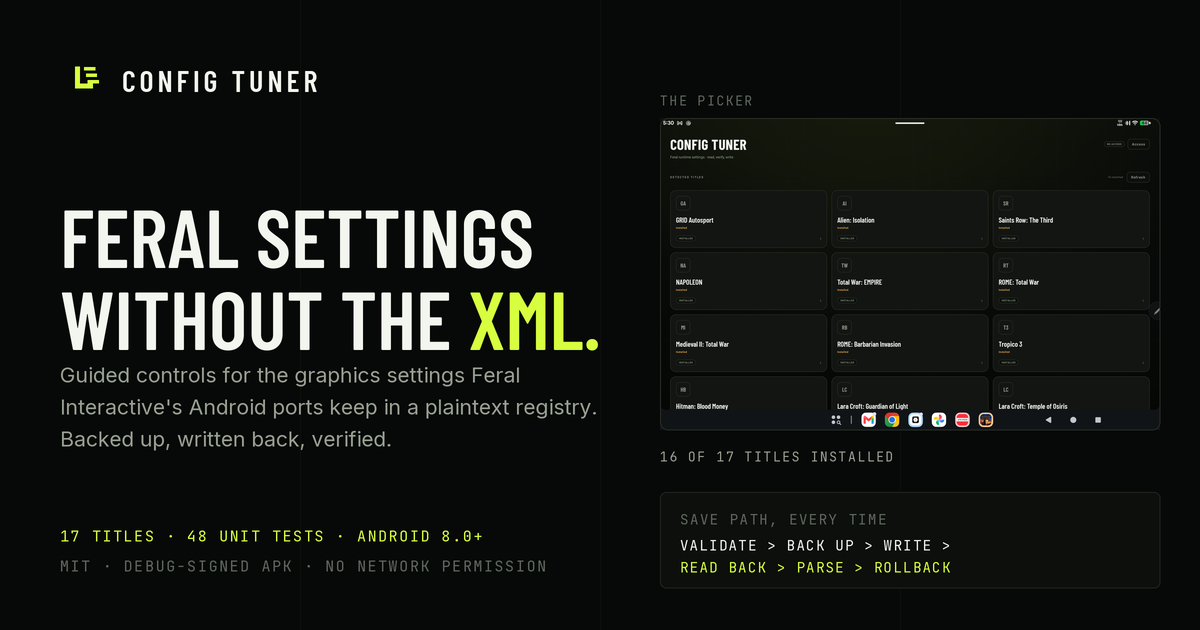
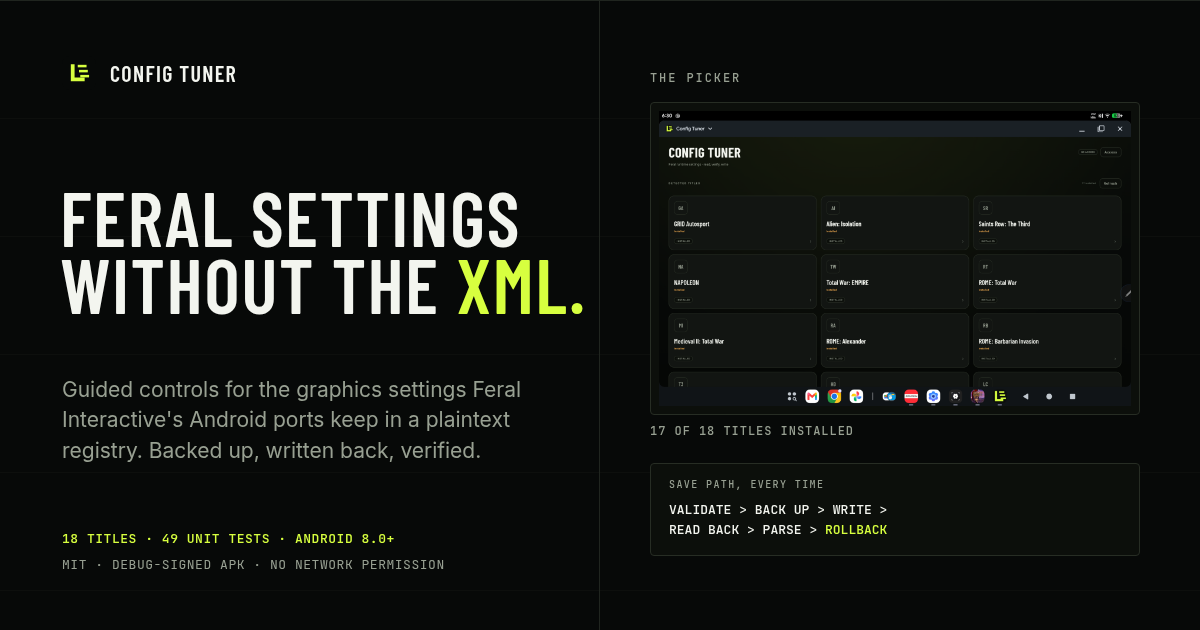
fix(website): sync landing page to 1.2.9 and 18 titles
- add ROME: Alexander to the title grid
- update proof strip, hero, install metadata and FAQ counts
- refresh picker screenshot and social card
- keep design and brand guide consistent with the shipped release

diff --git a/docs/website/index.html b/docs/website/index.html
@@ -4,14 +4,14 @@
 <meta charset="utf-8">
 <meta name="viewport" content="width=device-width, initial-scale=1">
 <title>Config Tuner — Feral settings without the XML</title>
-<meta name="description" content="Config Tuner is an unofficial, tablet-first Android app that edits the graphics settings of Feral Interactive's Android ports with guided controls, verified writes and automatic backups. 17 titles. Formerly Legend Tuner.">
+<meta name="description" content="Config Tuner is an unofficial, tablet-first Android app that edits the graphics settings of Feral Interactive's Android ports with guided controls, verified writes and automatic backups. 18 titles. Formerly Legend Tuner.">
 <meta name="theme-color" content="#070908">
 <meta name="color-scheme" content="dark">
 <link rel="canonical" href="https://andrewr8712.github.io/legend-tuner/">
 
 <meta property="og:type" content="website">
 <meta property="og:title" content="Config Tuner — Feral settings without the XML">
-<meta property="og:description" content="Guided controls for the graphics settings Feral Interactive's Android ports keep in a plaintext registry. Backed up, written back, verified. 17 titles, Android 8.0+, no network permission.">
+<meta property="og:description" content="Guided controls for the graphics settings Feral Interactive's Android ports keep in a plaintext registry. Backed up, written back, verified. 18 titles, Android 8.0+, no network permission.">
 <meta property="og:url" content="https://andrewr8712.github.io/legend-tuner/">
 <meta property="og:site_name" content="Config Tuner">
 <meta property="og:image" content="https://andrewr8712.github.io/legend-tuner/assets/brand/social-card.png">
@@ -60,7 +60,7 @@
   <section class="hero" id="top">
     <div class="wrap hero-grid">
       <div class="hero-copy">
-        <p class="kicker">Unofficial · Android 8.0+ · 17 titles</p>
+        <p class="kicker">Unofficial · Android 8.0+ · 18 titles</p>
         <h1>Feral settings<br><span class="hl">without the XML.</span></h1>
         <p class="lede">Every Feral Android port keeps its real graphics settings in a plaintext registry
           that Android will not let you open. Config Tuner gives you readable controls for that file —
@@ -75,7 +75,7 @@
             View on GitHub
           </a>
         </div>
-        <p class="hero-note">v1.2.8 · debug-signed · 10 MB · no network permission</p>
+        <p class="hero-note">v1.2.9 · debug-signed · 10 MB · no network permission</p>
       </div>
 
       <div class="hero-art">
@@ -100,12 +100,12 @@
   <section class="proof" id="proof" aria-label="At a glance">
     <div class="wrap proof-inner">
       <dl class="proof-list">
-        <div><dt>17</dt><dd>titles with guided controls</dd></div>
-        <div><dt>48</dt><dd>unit tests on the parser and catalogue</dd></div>
+        <div><dt>18</dt><dd>titles with guided controls</dd></div>
+        <div><dt>49</dt><dd>unit tests on the parser and catalogue</dd></div>
         <div><dt>0</dt><dd>network permissions, analytics or telemetry</dd></div>
         <div><dt>MIT</dt><dd>open source, debug-signed, on GitHub</dd></div>
       </dl>
-      <p class="proof-note">17 titles · 48 unit tests · as of 1.2.8</p>
+      <p class="proof-note">18 titles · 49 unit tests · as of 1.2.9</p>
     </div>
   </section>
 
@@ -205,7 +205,7 @@
     <div class="wrap">
       <header class="sec-head">
         <p class="sec-kicker">03 — Titles</p>
-        <h2>Seventeen games, one editor.</h2>
+        <h2>Eighteen games, one editor.</h2>
         <p class="sec-lede">Guided controls differ per title because the registries do. Counts are the
           number of guided controls Config Tuner ships for that title.</p>
       </header>
@@ -216,7 +216,7 @@
           <svg class="ico" viewBox="0 0 16 16" aria-hidden="true"><circle cx="7" cy="7" r="4.5" fill="none" stroke="currentColor" stroke-width="1.4"/><path d="m10.5 10.5 3 3" stroke="currentColor" stroke-width="1.4" fill="none"/></svg>
           <input id="title-filter" type="search" placeholder="Filter by title or package" autocomplete="off" spellcheck="false">
         </label>
-        <p class="filter-count" id="title-count" aria-live="polite">17 of 17 shown</p>
+        <p class="filter-count" id="title-count" aria-live="polite">18 of 18 shown</p>
       </div>
 
       <ul class="title-grid" id="title-list">
@@ -305,6 +305,11 @@
           <span class="tc-count">24 <span>guided controls</span></span>
           <code class="tc-pkg">com.feralinteractive.rometwbi</code>
         </li>
+        <li class="title-card" data-name="ROME: Alexander com.feralinteractive.rometwalex">
+          <span class="tc-name">ROME: Alexander</span>
+          <span class="tc-count">24 <span>guided controls</span></span>
+          <code class="tc-pkg">com.feralinteractive.rometwalex</code>
+        </li>
       </ul>
       <p class="empty-note" id="title-empty" hidden>No title matches that. <button type="button" class="linklike" id="title-reset">Clear the filter</button></p>
 
@@ -348,7 +353,7 @@
             <figcaption>Resolution and render scale use common-value lists, not free-form steppers.</figcaption></figure>
         </div>
       </div>
-      <p class="shot-note">All four screens are the shipping 1.2.8 interface. Nothing on this page is mocked up.</p>
+      <p class="shot-note">All four screens are the shipping 1.2.9 interface. Nothing on this page is mocked up.</p>
     </div>
   </section>
 
@@ -382,7 +387,7 @@
         <h3>Requirements</h3>
         <dl class="req-list">
           <div><dt>Android</dt><dd>8.0 or later (API 26), target 35</dd></div>
-          <div><dt>Download</dt><dd>~10 MB APK, <span class="nowrap">v1.2.8</span> (versionCode 11)</dd></div>
+          <div><dt>Download</dt><dd>~10 MB APK, <span class="nowrap">v1.2.9</span> (versionCode 12)</dd></div>
           <div><dt>Signature</dt><dd>Debug-signed, not on Google Play</dd></div>
           <div><dt>Permissions</dt><dd>No network permission at all</dd></div>
           <div><dt>Access</dt><dd>Root, Shizuku, manual file, or direct on older Android</dd></div>
@@ -456,13 +461,13 @@
         <details>
           <summary>Can I use it with a title that is not listed?</summary>
           <p>Open the preferences file with the raw XML editor. Guided controls exist only for the
-            seventeen titles the catalogue covers. A game that is not listed may still work through the
+            eighteen titles the catalogue covers. A game that is not listed may still work through the
             raw editor, and its keys may not be documented.</p>
         </details>
         <details>
           <summary>What is Legend Tuner?</summary>
           <p>Formerly Legend Tuner, which edited GRID Legends only. Version 1.2.x keeps the same package
-            identity and adds sixteen more titles.</p>
+            identity and adds seventeen more titles.</p>
         </details>
         </div>
       </div>

diff --git a/docs/website/brand/index.html b/docs/website/brand/index.html
@@ -40,7 +40,7 @@
 <main id="main">
 
   <section class="wrap brand-hero">
-    <p class="kicker">Brand kit · v1.2.8</p>
+    <p class="kicker">Brand kit · v1.2.9</p>
     <h1>The field instrument kit.</h1>
     <p class="sec-lede">One lime mark, one condensed headline face and a dark instrument panel.
       Everything here is meant to look like a tool someone uses, not a game someone markets.
@@ -207,7 +207,7 @@
     </div>
 
     <figure class="logo-card logo-card--spaced">
-      <div class="logo-stage logo-stage--flush"><img src="../assets/brand/social-card.png" alt="Config Tuner social card: mark and wordmark, headline Feral settings without the XML, and the title picker with sixteen installed titles." width="1200" height="630" loading="lazy"></div>
+      <div class="logo-stage logo-stage--flush"><img src="../assets/brand/social-card.png" alt="Config Tuner social card: mark and wordmark, headline Feral settings without the XML, and the title picker with seventeen of eighteen installed titles." width="1200" height="630" loading="lazy"></div>
       <figcaption class="logo-meta"><span class="name">Social card</span><span class="dl">1200 × 630 · <a href="../assets/brand/social-card.png">PNG</a></span></figcaption>
     </figure>
   </section>
@@ -228,7 +228,7 @@
         <ul class="rule-list yes">
           <li>“Guided controls over the game's own file” — not mods, not a trainer, not a cheat menu.</li>
           <li>Name the constraint: the game may rewrite settings on exit; the APK is debug-signed.</li>
-          <li>Numbers only where they are checked: 17 titles, 48 unit tests, as of 1.2.8.</li>
+          <li>Numbers only where they are checked: 18 titles, 49 unit tests, as of 1.2.9.</li>
           <li>Say “built by a non-developer with an AI coding agent” rather than inventing a company.</li>
         </ul>
       </div>

diff --git a/docs/website/DESIGN.md b/docs/website/DESIGN.md
@@ -1,8 +1,8 @@
 # Config Tuner site — design document
 
-**Status:** draft for approval · 2026-11-06
-**Source of truth for facts:** `docs/website/AGENT-BRIEF.md` (1.2.8) and the repository README.
-**Nothing is built until this is approved.**
+**Status:** approved design record · 2026-11-06
+**Source of truth for facts:** `docs/website/AGENT-BRIEF.md` (1.2.9) and the repository README.
+**Approved and built.**
 
 ---
 
@@ -19,7 +19,7 @@ uncomfortable parts (root, debug signature, the game rewrites settings on exit) 
 button, not after it.
 
 Secondary job: give the project a home that outlives a README — a place for release news, the
-17-title catalogue, and the safety model.
+18-title catalogue, and the safety model.
 
 ## 2. Goals and non-goals
 
@@ -55,7 +55,7 @@ README.
 
 **C — Download-first single screen.**
 Hero, one paragraph, one button, footer. Lowest friction for someone who already knows the app;
-useless to everyone else, and it throws away the 17-title catalogue and the safety story, which are
+useless to everyone else, and it throws away the 18-title catalogue and the safety story, which are
 the actual reasons to trust it.
 
 **Recommendation: A.** It keeps the brief's direction (the app's own instrument look), carries the
@@ -71,10 +71,10 @@ Single page, `index.html`, plus a second page `brand/` for the kit. Section ids 
 |---|----|---------|---------|
 | 0 | — | Header, sticky | mark + wordmark, nav (How it works · Safety · Titles · Install · FAQ), Download APK |
 | 1 | `top` | Hero | H1, one-sentence explainer, Download + GitHub, three micro-facts, hero visual |
-| 2 | `proof` | Proof strip | 17 titles · 48 unit tests · no network permission · MIT, stamped "as of 1.2.8" |
+| 2 | `proof` | Proof strip | 18 titles · 49 unit tests · no network permission · MIT, stamped "as of 1.2.9" |
 | 3 | `how` | How it works | 4 steps, line-drawn connectors, the file path in mono |
 | 4 | `safety` | Safety | 3 guarantees + 3 honest caveats, side by side |
-| 5 | `titles` | Supported titles | filter field, 17 cards with control counts, "not installed" behaviour |
+| 5 | `titles` | Supported titles | filter field, 18 cards with control counts, "not installed" behaviour |
 | 6 | `shots` | Screenshots | 4-image tab set: picker, guided editor, preset tabs, resolution |
 | 7 | `install` | Install | 4 steps, requirements, the four access routes compared, debug-build warning |
 | 8 | `faq` | FAQ | 6 `<details>` items |
@@ -82,7 +82,7 @@ Single page, `index.html`, plus a second page `brand/` for the kit. Section ids 
 
 **Hero copy (draft).**
 
-> Unofficial · Android 8.0+ · 17 titles
+> Unofficial · Android 8.0+ · 18 titles
 > # Feral settings without the XML.
 > Every Feral Android port keeps its real graphics settings in a plaintext registry that Android
 > will not let you open. Config Tuner gives you readable controls for that file — backed up,
@@ -90,11 +90,11 @@ Single page, `index.html`, plus a second page `brand/` for the kit. Section ids 
 > **[ Download APK ]** [ View on GitHub ]
 > `Android/data/<package>/files/feral_app_support/preferences`
 
-Hero visual: the path block above rendered as a terminal line with a lime caret, then the 1.2.8
+Hero visual: the path block above rendered as a terminal line with a lime caret, then the 1.2.9
 picker capture in a simple tablet frame, bleeding off the right edge on wide screens.
 
-**Proof strip:** `17` titles · `48` unit tests · `0` network permissions · MIT. Footnote:
-"Counts as of 1.2.8".
+**Proof strip:** `18` titles · `49` unit tests · `0` network permissions · MIT. Footnote:
+"Counts as of 1.2.9".
 
 **How it works (4 steps):**
 
@@ -118,7 +118,7 @@ you can supply."
 
 **Install:** 1) download the APK on the tablet, 2) allow install from this source, 3) open and pick a
 title, 4) choose a route if Android blocks the folder. Requirements list: Android 8.0+, 10 MB, no
-Play Store, version 1.2.8 (versionCode 11), debug-signed.
+Play Store, version 1.2.9 (versionCode 12), debug-signed.
 
 **FAQ:** why root/Shizuku is needed; is it safe; what happens when the game updates; why debug-signed;
 does it collect anything (no network permission at all); can it work with a title that is not listed;
@@ -169,7 +169,7 @@ Shipped in `assets/brand/` and documented at `brand/index.html`.
   192/512 PNG, 512 maskable with the mark inside the 80 % safe circle. `site.webmanifest` with
   canvas background and lime theme colour.
 - **Social card:** 1200×630, canvas, hairline frame, wordmark top-left, the H1 in two lines, lime
-  rule, "17 titles · no network permission · no telemetry" — final line is "Debug-signed APK for
+  rule, "18 titles · no network permission · no telemetry" — final line is "Debug-signed APK for
   Android 8.0+".
 - **Brand guide page:** tokens with swatches and contrast ratios, type specimens, lockup rules and
   five don'ts, download links for SVG/PNG assets. Linked from the footer, not the main nav.
@@ -188,14 +188,14 @@ docs/website/
   assets/js/site.js
   assets/fonts/*.woff2            self-hosted, subset, OFL licences included
   assets/brand/*.svg|*.png
-  assets/shots/*.png              copied from docs/screenshots + picker-1.2.8.png
+  assets/shots/*.png              copied from docs/screenshots + picker-1.2.9.png
   site.webmanifest
   README.md                       handover notes
 ```
 
 - Semantic HTML5; CSS custom properties from the token file; one small JS file for the title filter,
   the screenshot tabs, the scroll-spy nav and reveal animations (all optional — the page works with
-  JS disabled: all 17 titles are in the HTML, filtering is progressive enhancement).
+  JS disabled: all 18 titles are in the HTML, filtering is progressive enhancement).
 - **Zero third-party requests:** fonts self-hosted, no CDN, no analytics, no embeds. This is a
   product claim the site itself should honour.
 - **Deployment:** the source lives in `docs/website/`, which GitHub Pages cannot serve directly
@@ -219,14 +219,14 @@ docs/website/
    1440 px; axe-core scan with no serious violations; keyboard pass through nav, tabs, filter, FAQ.
 5. JS-disabled pass: titles, FAQ and install steps all present and readable.
 6. `prefers-reduced-motion` pass: no transforms, no line draw.
-7. Fact check against the brief: 1.2.8, 17 titles with exact control counts, 48 tests, Android 8.0+,
+7. Fact check against the brief: 1.2.9, 18 titles with exact control counts, 49 tests, Android 8.0+,
    no network permission, debug-signed, no Play Store mention.
 
 ## 9. Open questions
 
 Seven are filed in `docs/website/QUESTIONS.md` (PR #2), each with a default. Nothing in section 7
 blocks on them; the two that could change output are **branding depth** (full kit vs lean) and
-**screenshots** (which 1.2.8 captures exist).
+**screenshots** (which 1.2.9 captures exist).
 
 ## 10. What I will not do without a second approval
 

diff --git a/docs/website/README.md b/docs/website/README.md
@@ -45,8 +45,8 @@ Use a server rather than `file://`: the woff2 files are loaded with CORS, which 
 
 - **Facts come from the repo.** Title list, package ids, control counts and version numbers are
   copied from the app `README.md` and the current GitHub release. If a title is added or a count
-  changes, update `#titles` (the 17 cards) and the proof strip together.
-- **Numbers are stamped, not live.** The page says "17 titles · 48 unit tests · as of 1.2.8".
+  changes, update `#titles` (the 18 cards) and the proof strip together.
+- **Numbers are stamped, not live.** The page says "18 titles · 49 unit tests · as of 1.2.9".
   Bump the stamp when the facts change; never claim a number that is not in the release notes.
 - **No forbidden claims.** No "all Feral games", "every setting", "no root ever needed",
   "Play Store", "official", "guaranteed safe on every device", or support for untested versions.

diff --git a/docs/website/DECISIONS.md b/docs/website/DECISIONS.md
@@ -18,7 +18,7 @@ Self-host webfonts (Barlow Condensed is OFL) so the “zero third-party requests
 
 ## 2. Screenshots
 
-Start with the 1.2.8 picker and a simple save-pipeline diagram. The app side will supply:
+Start with the 1.2.9 picker and a simple save-pipeline diagram. The app side will supply:
 
 - per-title editor with preset tabs visible
 - raw XML editor
@@ -48,7 +48,7 @@ domain or another static host.
 
 Stamp once in the proof-strip footnote:
 
-> 17 titles · 48 unit tests · as of 1.2.8
+> 18 titles · 49 unit tests · as of 1.2.9
 
 Do not imply the test count is permanent.
 
